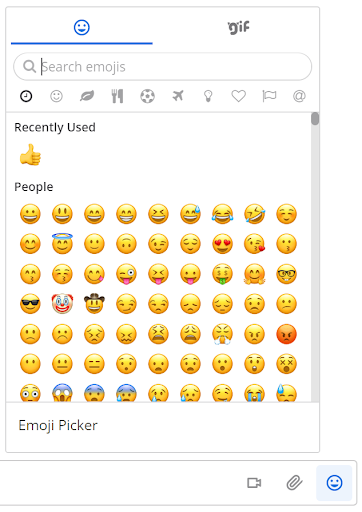
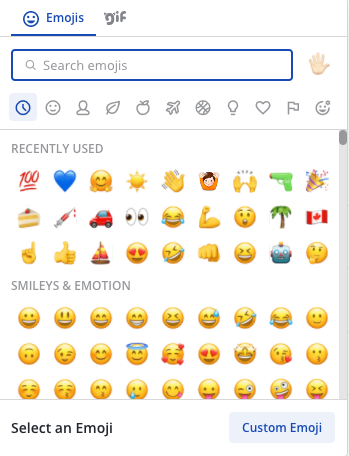
MM-34475 Emoji 13.0 with new library (#4700)
* MM-34475 Emoji 13.0 with new library

Documentation for: https://github.com/mattermost/mattermost-webapp/pull/8220

Updated:
- Messaging > Work with Messages > Using Emojis > Adding Emojis to messages
   - Added details about selecting skin tone when selecting or typing emojis
   - Removed the Accessing Alternate Skin Tones section
   - Corrected RST formatting so that custom emoji sections now display as intended on the same page

* removed custom emoji topic from toctree

* Replace 1 screenshot

* Reverted screenshot replacement

* Added new screenshot for default skin tone selection

* Added skin tone selection screenshot

* Update source/help/messaging/emoji.rst

* Minor text updates for clarity

* Replaced first image with redesigned Emoji Picker

* Update source/help/messaging/emoji.rst

diff --git a/source/help/messaging/emoji.rst b/source/help/messaging/emoji.rst
@@ -6,109 +6,65 @@ Emojis are small, digital images or icons used to communicate or express concept
 Adding Emojis to messages
 -------------------------
 
-**Selecting Emojis**
+Selecting an Emoji
+~~~~~~~~~~~~~~~~~~
 
-Select the smile icon inside the Mattermost message input box to open the Emoji Picker.
+Select the **Smile** icon inside the Mattermost message input box to open the Emoji Picker.
 
 .. image:: ../../images/selectemoji.png
   :alt: Open the Mattermost Emoji Picker.
 
-**Typing Emojis**
+Selecting a Default Skin Tone
+~~~~~~~~~~~~~~~~~~~~~~~~~~~~~
 
-Alternatively, open the emoji autocomplete by typing ``:`` followed by at least two characters of the word describing the emoji. 
+Select the **Skin Tone** icon in the top right corner of the Emoji Picker to specify a preferred skin tone for people-based emojis. 
+
+.. image:: ../../images/emoji-skin-tone.png
+  :alt: Select a default skin tone for people-based emojis.
+
+Typing an Emoji
+---------------
+
+Alternatively, open the emoji autocomplete by typing ``:`` followed by at least two characters of the word describing the emoji. Descriptions include skin tone details for people-based emojis, where supported.
 
 .. image:: ../../images/emojiautocomplete.png
    :alt: Emoji Autocomplete
    :scale: 80
    
-It's also possible to create your own `Custom Emoji <https://docs.mattermost.com/help/settings/custom-emoji.html>`__ if the emoji you want to use doesn't exist.
+It's also possible to `create your own custom emoji <#custom-emoji>`_ if the emoji you want to use doesn't exist.
 
-Accessing Alternate Skin Tones
-------------------------------
-
-The Mattermost Emoji Picker and Emoji autocomplete use generic skin tones. To access alternate skin tones, you can use the native emoji pickers provided on your platform or device.
-
-**Windows 10**
-
-1. Use the keyboard shortcut: Windows Key + **.** (period) to open the native emoji picker for Windows 10.
-2. Select an alternate skin tone and then select an emoji.
-
-.. image:: ../../images/windows10emojiskintones.png
-  :alt: Select alternate emoji skin tones on Windows 10 systems.
-  :scale: 70
-
-**macOS**
-
-1. Use the keyboard shortcut: CMD+CTRL+Space Bar to open the native emoji picker for macOS.
-2. Select and hold an emoji to choose an alternate skin tone.
-
-.. image:: ../../images/macosemojiskintones.png
-  :alt: Select alternate emoji skin tones on macOS systems.
-  :scale: 80
-
-**iPhone and iPad**
-
-1. Open the emoji keyboard.
-2. Touch and hold an emoji to choose an alternate skin tone.
-
-.. image:: ../../images/mobile/appleemojiskintones.png
-  :alt: Select alternate emoji skin tones on Apple devices.
-  :scale: 30
-
-
-.. tip::
-  If you don't see the emoji keyboard for your Apple device, you can enable it. See `Use emoji on your iPhone, iPad, and iPod touch <https://support.apple.com/en-us/HT202332>`__ for details.
-
-**Android**
-
-1. Open the Android emoji keyboard.
-2. Touch and hold an emoji to choose an alternate skin tone.
-
-.. image:: ../../images/mobile/androidemojiskintones.png
-  :alt: Select alternate emoji skin tones on Android devices.
-  :scale: 80
-
-  Custom Emoji
-  -------------
+Creating Custom Emojis
+-----------------------
   
-  You can create Custom Emojis which are available to everyone on your Mattermost server. 
+You can create Custom Emojis which are available to everyone on your Mattermost server. From the Emoji Picker, select **Custom Emoji**. Small, square pictures work best when selecting an image to upload. The file can be any JPG, GIF, or PNG and up to 1 MB in size.
   
-  To create and find Custom Emojis, open the **Main Menu** at the top right of the channels sidebar and select **Custom Emoji**.
+1. Enter a name for your Custom Emoji. This is the name that will show up in the emoji autocomplete.
+2. Choose **Select**, then select the image to use for the emoji. 
+3. Select **Save**.
   
-    .. note::
+.. image:: ../../images/add_custom_emoji.png
+  
+Once saved, your emoji is added to the list of Custom Emoji. 
 
-      If you can't see the **Custom Emoji** option in the menu, then your Mattermost System Admin may have restricted access to certain users. Contact your Mattermost System Admin for help.
+.. note::
+
+  If you can't see the **Custom Emoji** option, then your Mattermost System Admin may have restricted access to certain users. Contact your Mattermost System Admin for help.
       
-      For further assistance, review the `Troubleshooting forum <https://forum.mattermost.org/c/trouble-shoot>`__ for previously reported errors, or `join the Mattermost user community for troubleshooting help <https://mattermost.com/pl/default-ask-mattermost-community/>`_.
+  For further assistance, review the `Troubleshooting forum <https://forum.mattermost.org/c/trouble-shoot>`__ for previously reported errors, or `join the Mattermost user community for troubleshooting help <https://mattermost.com/pl/default-ask-mattermost-community/>`_.
   
-  Creating Custom Emojis
-  ^^^^^^^^^^^^^^^^^^^^^^
+Using Custom Emojis
+~~~~~~~~~~~~~~~~~~~
+
+To use your Custom Emoji in a message, simply type ``:`` followed by your emoji name to bring it up in the emoji autocomplete. Other users on the site will also be able to see your emoji in the autocomplete, and will be able to use it in their own messages.
   
-  Small, square pictures work best when selecting an image. The file can be any JPG, GIF, or PNG and up to 1 MB in size.
+Deleting Custom Emojis
+~~~~~~~~~~~~~~~~~~~~~~
   
-  1. Open the **Main Menu** at the top-right of the channels sidebar.
-  2. Select **Custom Emoji**.
-  3. Choose **Add Custom Emoji**.
-  4. Enter a name for your Custom Emoji. This is the name that will show up in the emoji autocomplete.
-  5. Choose **Select**, and choose what image to use for the emoji. 
-  6. Choose **Save**.
+You can delete Custom Emojis that you created. 
   
-  .. image:: ../../images/add_custom_emoji.png
+1. If required, use the Search Bar to find your Custom Emoji in the list.
+2. Under **Actions** select **Delete**. 
+3. Select **Delete** to confirm. 
   
-  Once saved, your emoji will be added to the list of Custom Emoji. 
-  
-  To use your Custom Emoji in a message, simply type ":" followed by your emoji name to bring it up in the emoji autocomplete. Other users on the site will also be able to see your emoji in the autocomplete, and will be able to use it in their own messages.
-  
-  Deleting Custom Emojis
-  ^^^^^^^^^^^^^^^^^^^^^^^
-  
-  You can delete Custom Emojis that you created. 
-  
-  1. Open the **Main Menu** at the top-right of the channels sidebar.
-  2. Select **Custom Emoji**.
-  3. If required, use the Search Bar to find your Custom Emoji in the list.
-  4. Under **Actions** select **Delete**. 
-  5. Choose **Delete** to confirm. 
-  
-  .. image:: ../../images/delete_custom_emoji.png
+.. image:: ../../images/delete_custom_emoji.png
   

diff --git a/source/guides/messaging.rst b/source/guides/messaging.rst
@@ -25,7 +25,6 @@ Work with Messages
    /help/messaging/sending-messages.rst
    /help/messaging/formatting-text.rst
    /help/messaging/emoji.rst
-   /help/settings/custom-emoji.rst
    /help/messaging/mentioning-teammates.rst
    /help/messaging/attaching-files.rst
    /help/messaging/executing-commands.rst
